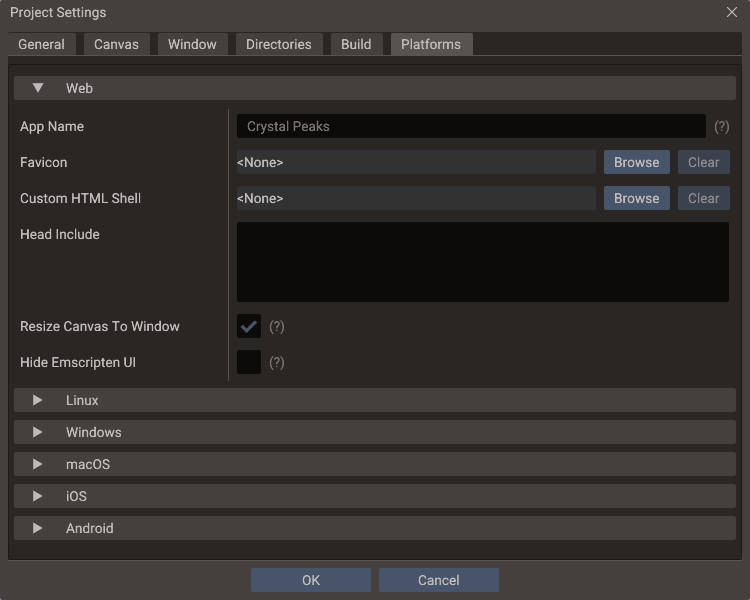
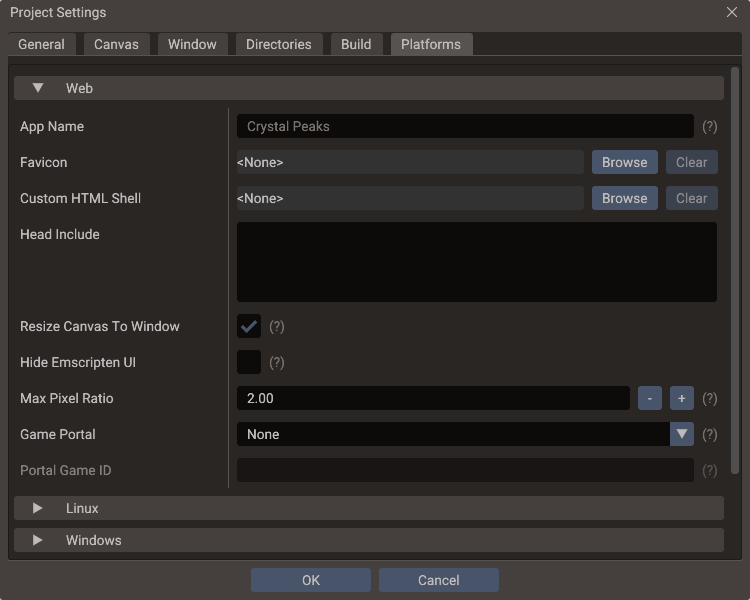
Web screen density and hidden pages

Changed region(s): [[0.0, 0.12, 1.0, 0.93]]

diff --git a/docs/building/html5.md b/docs/building/html5.md
@@ -20,10 +20,10 @@ producing JavaScript and WebAssembly output that runs in the browser.
 
 The generated page is not fixed. **Project Settings → Platforms → Web** sets the page
 title, a favicon, extra `<head>` markup, whether the canvas follows the browser window,
-and whether Emscripten's default logo, status line and console are hidden. For full
-control, supply a **Custom HTML Shell**: any HTML file containing a
-`{{DORIAX_DEFAULT_HTML}}` marker, which the build replaces with the page Emscripten
-generated. See [Web settings](../editor/project-settings.md#web).
+whether Emscripten's default logo, status line and console are hidden, and how many
+pixels HiDPI screens draw. For full control, supply a **Custom HTML Shell**: any HTML
+file containing a `{{DORIAX_DEFAULT_HTML}}` marker, which the build replaces with the
+page Emscripten generated. See [Web settings](../editor/project-settings.md#web).
 
 ## Game portals
 
@@ -36,6 +36,31 @@ export. A build configured by hand takes the same choice as
 plus `-DDORIAX_WEB_PORTAL_GAME_ID=<id>` for GameDistribution. See
 [Monetization → Web portals](../manual/monetization.md#web-portals) for the API and for
 testing each portal on `localhost`.
+
+## Screen density
+
+On phones and HiDPI monitors one CSS pixel covers several device pixels. The game draws
+at the device's resolution, up to the **Max Pixel Ratio** of the
+[Web settings](../editor/project-settings.md#web), which is 2 by default. A canvas that
+is 800×360 on the page of a phone with three device pixels per CSS pixel is drawn at
+1600×720. Input coordinates and
+[`System::getScreenWidth`](../reference/classes/system.md#getscreenwidth-getscreenheight)
+follow that size, so canvas scaling works as on any other screen. Lower the setting when
+a GPU-heavy game runs slowly on such screens. A build configured by hand takes it as
+[`-DDORIAX_WEB_MAX_PIXEL_RATIO=1.5`](../reference/build-options.md#runtime-project-options).
+
+The drawing size follows the size the canvas has on the page, so a custom shell only
+needs to style the canvas with CSS. With **Resize Canvas To Window** off and no CSS of
+your own, the canvas has the project's window size.
+
+## Hidden pages
+
+The game pauses while its page is hidden: another tab in front, the browser minimized,
+or the phone locked. Sounds pause with it and
+[`Engine::onPause`](../reference/classes/engine.md#onpause) fires.
+[`Engine::onResume`](../reference/classes/engine.md#onresume) follows when the page
+shows again. A YouTube Playables export leaves this to YouTube, which pauses the game
+itself.
 
 ## 1. Install Emscripten
 

diff --git a/docs/reference/build-options.md b/docs/reference/build-options.md
@@ -81,11 +81,13 @@ cmake --build build --config Debug
 | `DORIAX_STOREKIT` | `ON` | iOS only: compile the StoreKit 2 adapter, a Swift source that needs Swift 6.1 (Xcode 16.3 or later), defining the `DORIAX_STOREKIT` macro. `OFF` leaves [`InAppPurchase`](classes/inapppurchase.md) unavailable on iOS. |
 | `DORIAX_WEB_PORTAL` | `none` | Web only: the game portal SDK built in for [`WebPortal`](classes/webportal.md): `none`, `crazygames`, `poki`, `gamedistribution`, `yandex` or `youtube`. Any other value fails configuration. A portal also defines `DORIAX_WEB_PORTAL_<NAME>`, like `DORIAX_WEB_PORTAL_POKI`. |
 | `DORIAX_WEB_PORTAL_GAME_ID` | `""` | Web only: the game ID of portals that need one, which is GameDistribution. |
+| `DORIAX_WEB_MAX_PIXEL_RATIO` | `2` | Web only: the most pixels drawn for each CSS pixel on phones and HiDPI screens. See [Screen density](../building/html5.md#screen-density). |
 
 The editor writes these options into exported CMake projects from **Project
 Settings** (VSync, the Window settings, the C++ standard, the physics backends, iOS
-**Google AdMob** and **App Store Purchases**, and the web **Game Portal**). For a manually
-configured standalone runtime, override them at configure time:
+**Google AdMob** and **App Store Purchases**, and the web **Game Portal** and
+**Max Pixel Ratio**). For a manually configured standalone runtime, override them at
+configure time:
 
 ```bash
 cmake -S engine -B build-runtime \

diff --git a/docs/editor/project-settings.md b/docs/editor/project-settings.md
@@ -198,6 +198,7 @@ Studio workspaces are generated.
 | **Head Include** | Empty | HTML inserted into the page's `<head>` |
 | **Resize Canvas To Window** | Enabled | Resizes the rendering surface to the browser window. Aspect ratio and stretching still follow the canvas **Scaling Mode** |
 | **Hide Emscripten UI** | Disabled | Hides the default logo, status line, controls and output console. The nodes are kept alive, so the SDK's status callbacks keep working |
+| **Max Pixel Ratio** | 2 | Most pixels drawn for each CSS pixel on phones and HiDPI screens. Higher is sharper and costs more GPU time, and 1 draws at the CSS size on every screen. See [Screen density](../building/html5.md#screen-density) |
 | **Game Portal** | None | The web game portal whose SDK the export builds in, for the [`WebPortal`](../reference/classes/webportal.md) class: CrazyGames, Poki, GameDistribution, Yandex Games or YouTube Playables |
 | **Portal Game ID** | Empty | GameDistribution only: the game's ID from the GameDistribution dashboard. Without it the SDK is not loaded |
 

diff --git a/docs/editor/export.md b/docs/editor/export.md
@@ -392,9 +392,10 @@ for Windows** component of Visual Studio. Without either, Emscripten falls back 
 
 The generated page is customized from the [Web settings](project-settings.md#web): page
 title, favicon, an optional custom HTML shell, extra `<head>` markup, canvas resizing,
-and hiding Emscripten's default UI. The **Game Portal** setting builds in the SDK of one
-web game portal, for the [`WebPortal`](../reference/classes/webportal.md) class; export
-once per portal. See [Monetization → Web portals](../manual/monetization.md#web-portals).
+hiding Emscripten's default UI, and the pixel ratio limit of HiDPI screens. The
+**Game Portal** setting builds in the SDK of one web game portal, for the
+[`WebPortal`](../reference/classes/webportal.md) class; export once per portal. See
+[Monetization → Web portals](../manual/monetization.md#web-portals).
 
 !!! tip "Testing the build"
     Browsers do not load WebAssembly from `file://`. Serve the destination folder with

diff --git a/docs/reference/classes/engine.md b/docs/reference/classes/engine.md
@@ -797,7 +797,9 @@ Called after the regular update and fixed-update passes each frame. Useful for l
 * `static FunctionSubscribe<void()> onPause`
 * Callback: `void()`
 
-Called when the system suspends the application (e.g. phone call received, app moved to background). It also fires while a full-screen ad covers the game and while a web portal pauses it; see [Ads pause the game](../../manual/monetization.md#ads-pause-the-game).
+Called when the system suspends the application (e.g. phone call received, app moved to background). On the web that is the page being hidden; see [Hidden pages](../../building/html5.md#hidden-pages). It also fires while a full-screen ad covers the game and while a web portal pauses it; see [Ads pause the game](../../manual/monetization.md#ads-pause-the-game).
+
+The engine pauses the playing sounds after this callback and resumes them before `onResume`. A sound the game paused itself, here or earlier, stays paused.
 
 ---
 

diff --git a/docs/manual/monetization.md b/docs/manual/monetization.md
@@ -769,8 +769,9 @@ A rewarded ad grants its reward only through `onAdFinished`.
 
 The engine [pauses](#ads-pause-the-game) while one of its ads plays. GameDistribution,
 Yandex Games and YouTube Playables also pause the game themselves: for an ad they start
-on their own, a purchase window, or the player switching away. The engine stays paused
-until both the ad and the portal let it go, and `Engine::onResume` follows.
+on their own, a purchase window, or the player switching away. A web game also pauses
+while its [page is hidden](../building/html5.md#hidden-pages). The engine stays paused
+until the ad, the portal, and the page all let it go, and `Engine::onResume` follows.
 
 YouTube Playables can mute a game from its own interface. The engine follows it: audio
 stays silent while YouTube has it off, whatever the game's

diff --git a/docs/manual/audio.md b/docs/manual/audio.md
@@ -111,6 +111,10 @@ moving entity in the editor's Structure panel (or in the scene hierarchy).
     AudioSystem::stopAll();
     ```
 
+The engine also pauses the playing sounds by itself while the game is suspended: the app
+in the background, a hidden web page, or a full-screen ad. It resumes the same sounds
+afterwards, so one the game had paused stays paused.
+
 ## SoundPool
 
 For sounds that play frequently (gunshots, footsteps, coins), the engine caches decoded
